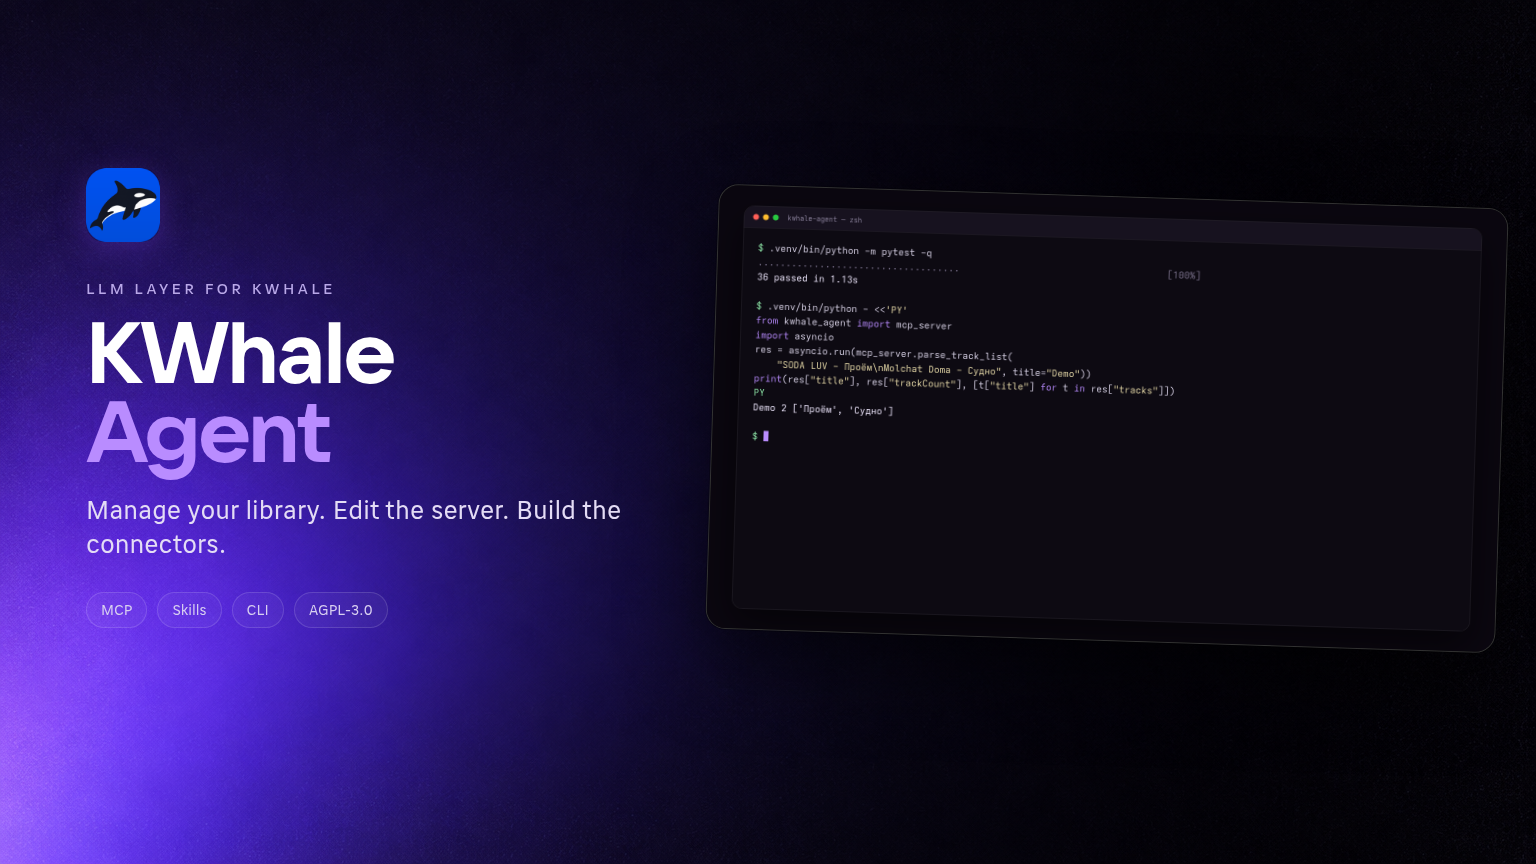
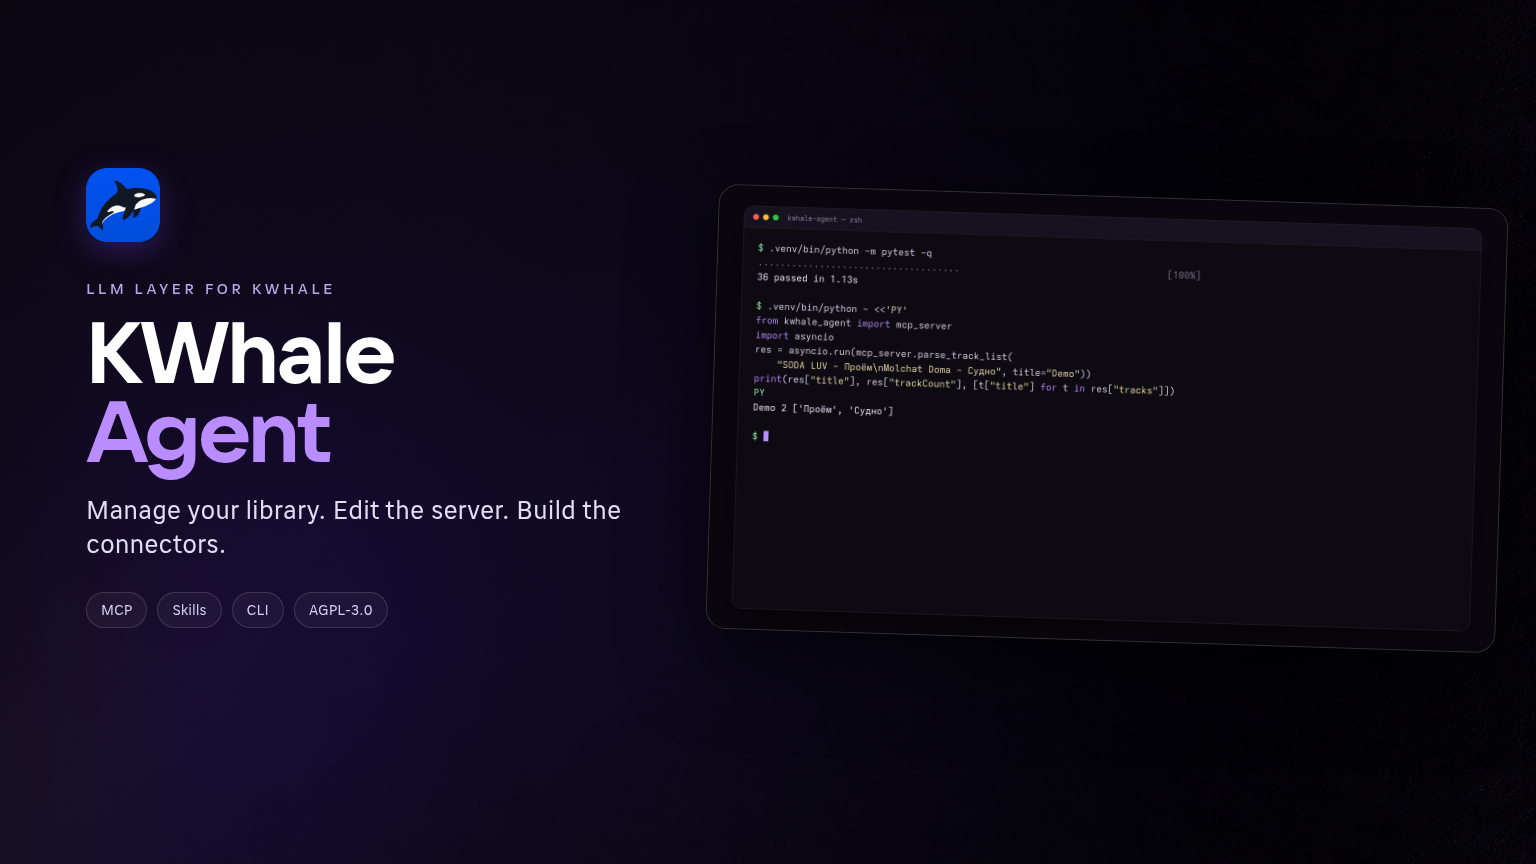
docs: add English README, refresh cover

diff --git a/README.md b/README.md
@@ -8,41 +8,50 @@
 
 # KWhale Agent
 
-**The agent layer for KWhale — playlist parsers, an MCP server, and a portable skill pack.**
+**An agent layer for KWhale — manage the library, edit the server, parse playlists, speak MCP.**
 
 [![License: AGPL-3.0](https://img.shields.io/badge/license-AGPL--3.0-blue.svg)](LICENSE)
 [![Python](https://img.shields.io/badge/python-3.11%2B-blue.svg)](https://www.python.org/)
 [![MCP](https://img.shields.io/badge/MCP-stdio-8A2BE2.svg)](https://modelcontextprotocol.io/)
+[![CI](https://github.com/KWhale-Music/kwhale-agent/actions/workflows/ci.yml/badge.svg)](https://github.com/KWhale-Music/kwhale-agent/actions/workflows/ci.yml)
 
 </div>
 
-Everything an LLM agent needs to manage a user's music collection on a
-[KWhale Server](https://github.com/KWhale-Music/kwhale-server): standalone playlist
-parsers (Yandex Music, SoundCloud, YouTube Music, VK, text/CSV/M3U lists, `yt-dlp`
-fallback), a parallel-matching importer, a full-featured **MCP server**, and a
-**portable skill pack** that works with any agent — with or without MCP.
+Everything an LLM agent needs to work with [KWhale Server](https://github.com/KWhale-Music/kwhale-server):
+manage the music collection, **edit the server code** and **build connectors** for any service.
+Inside: standalone playlist parsers (Yandex Music, SoundCloud, YouTube Music, VK,
+text/CSV/M3U lists, `yt-dlp` fallback), a parallel-matching importer, a full **MCP server**
+and a **portable skill pack** that works with any agent — with or without MCP.
 
-## ✨ Features
+## Features
 
+- **Library management** — search, playlists, likes, downloads, uploads, mixes and share
+  links through MCP or the plain `/v1` HTTP API.
 - **Standalone playlist parsers** — no server dependency; public Yandex Music playlists
-  (with redirect following and >150-track hydration), SoundCloud `api-v2` (with `client_id`
-  scraping and `on.soundcloud.com` redirects), YouTube Music InnerTube, VK `audio.get`,
-  plain `Artist - Title` lists, Exportify/Spotify CSV, M3U/M3U8, and a universal
-  `yt-dlp` fallback with optional proxy.
+  (redirects and >150-track hydration), SoundCloud `api-v2` (client_id scraping and
+  `on.soundcloud.com` redirects), YouTube Music InnerTube, VK `audio.get`, plain
+  `Artist - Title` lists, Exportify/Spotify CSV, M3U/M3U8 and a universal `yt-dlp`
+  fallback with optional proxy.
 - **Smart importer** — parallel track matching (ISRC + duration + text fallback) into a
   new or existing playlist, with `dry_run`.
+- **Code editing** — the `kwhale-codebase` skill gives the LLM a map of the server, the
+  Android client and the agent layer, plus build/test commands and invariants. The agent
+  can change code, not just manage the library.
+- **Connector building** — the `kwhale-connectors` skill is a complete guide to the
+  contract, registration, streaming, secrets and tests. It is enough to write a connector
+  for any service from scratch.
 - **MCP server** (`python -m kwhale_agent.mcp_server`) — ~30 tools: auth, playlist CRUD,
-  catalog search, likes, downloads, uploads, mixes, share links.
+  catalogue search, likes, downloads, uploads, mixes, share links.
 - **Portable skill pack** — `kwhale-api` (raw `/v1` protocol, works without MCP),
   `kwhale-ops` (operational scenarios), `kwhale-codebase`, `kwhale-connectors`,
-  `kwhale-proxy` (sing-box / proxy routing for sources).
-- **Isolated test stand** — the whole test suite runs without network and without a database.
+  `kwhale-proxy` (sing-box / source proxying).
+- **Isolated test bench** — the whole suite runs without network and without a database.
 
-## 📸 Screenshots
+## Screenshots
 
 <img src="docs/images/screens-terminal.png" alt="Terminal / MCP session" width="100%"/>
 
-## 🚀 Quickstart
+## Quick start
 
 ```bash
 git clone https://github.com/KWhale-Music/kwhale-agent.git
@@ -50,81 +59,63 @@ cd kwhale-agent
 python3 -m venv .venv
 .venv/bin/pip install -e ".[dev,fallback]"   # httpx[socks], fastmcp, pytest, yt-dlp
 
-.venv/bin/python -m pytest tests -v          # offline test suite
+.venv/bin/python -m pytest tests -v          # offline tests
 .venv/bin/python -m kwhale_agent.mcp_server  # start MCP (stdio)
 ```
 
-Connect to your agent: copy or symlink `skills/*` into your agent's skills directory
-(e.g. `.opencode/skills/`), and register the MCP server in its config.
-For an external agent **without MCP**, ship `skills/kwhale-api/SKILL.md` — the agent
-asks the user for the instance URL and credentials itself.
+Connecting an agent: copy or link `skills/*` into your agent's skills directory
+(for example `.opencode/skills/`) and register the MCP server in its config.
+For an external agent **without MCP**, the `skills/kwhale-api/SKILL.md` skill is enough —
+the agent will ask the user for the instance URL and credentials.
 
-## ⚙ Configuration
+## Configuration
 
 | Variable | Purpose |
 |---|---|
-| `KWHALE_BASE_URL` | instance API URL with `/v1` (e.g. `http://127.0.0.1:19001/v1`) |
-| `KWHALE_EMAIL` / `KWHALE_PASSWORD` | account credentials (login is by **email**) |
-| `KWHALE_DOWNLOAD_DIR` | target for `download_track(mode="file")` (default `./downloads`) |
+| `KWHALE_BASE_URL` | instance API URL with `/v1` (for example `http://127.0.0.1:19001/v1`) |
+| `KWHALE_EMAIL` / `KWHALE_PASSWORD` | credentials (login by **email**) |
+| `KWHALE_DOWNLOAD_DIR` | directory for `download_track(mode="file")` (default `./downloads`) |
 | `KWHALE_AGENT_VK_TOKEN` | VK token for `VkPlaylistParser` |
-| `HTTPS_PROXY` / `YTDLP_PROXY` | proxy for parsers and `yt-dlp` fallback (see `kwhale-proxy` skill) |
+| `HTTPS_PROXY` / `YTDLP_PROXY` | proxy for parsers and the `yt-dlp` fallback (`kwhale-proxy` skill) |
 
-If the env is empty, the agent should ask the user and call MCP `login(email, password, base_url)`.
+If the env is empty, the agent should ask the user and call the MCP `login(email, password, base_url)`.
 
-## 🧭 MCP tools
+## MCP tools
 
-- **Auth & info:** `login`, `logout`, `kwhale_status`
-- **Playlists & import:** `list_supported_platforms`, `detect_playlist_platform`,
+- **Auth and info:** `login`, `logout`, `kwhale_status`
+- **Playlist parsing and import:** `list_supported_platforms`, `detect_playlist_platform`,
   `parse_playlist`, `parse_track_list`, `import_playlist_to_profile` (`dry_run`)
-- **Playlist CRUD:** `list_playlists`, `get_playlist` (full pagination for 200+ tracks),
+- **Playlist CRUD:** `list_playlists`, `get_playlist` (full pagination >200 tracks),
   `create_playlist`, `update_playlist`, `delete_playlist`, `add_tracks_to_playlist`,
   `remove_track_from_playlist`, `reorder_playlist_tracks`, `like_playlist_tracks`
-- **Catalog & downloads:** `search_tracks` (`wait=true`), `get_track_details`, `like_track`,
+- **Catalogue and downloads:** `search_tracks` (`wait=true`), `get_track_details`, `like_track`,
   `download_track`, `download_status`, `upload_track`, `manage_enrichments`, `list_library`
-- **Mixes & share:** `list_mixes`, `get_mix_tracks`, `prompt_mix`, `create_share_link`
+- **Mixes and sharing:** `list_mixes`, `get_mix_tracks`, `prompt_mix`, `create_share_link`
 
-## 🏗 Structure
+## Structure
 
-```
+```text
 kwhale_agent/
-├── playlists/      # standalone parsers (yandex, soundcloud, ytm, vk, textlist, ytdlp fallback)
-├── bridge.py       # async HTTP bridge to the /v1 API
-├── importer.py     # parallel ISRC/duration/text matching importer
-└── mcp_server.py   # stdio MCP server
-skills/             # portable skill pack for any LLM agent
-tests/              # isolated, network-free test stand
+├── playlists/           # standalone parsers (yandex, soundcloud, ytm, vk, textlist, ytdlp fallback)
+├── bridge.py            # async HTTP bridge to the /v1 API
+├── importer.py          # parallel matching (ISRC + duration + fallback)
+└── mcp_server.py        # stdio MCP server
+skills/                  # portable skill pack for any LLM agent
+tests/                   # isolated test bench with no network and no database
 ```
 
-## 🧭 Author's review
+## Status
 
-*Honest notes from the author — trade-offs and open rough edges.*
+Beta.
 
-What I'm genuinely happy with:
-
-- **Parsers are standalone.** They don't import the server and don't need a database —
-  you can use this repo purely to scrape playlists into CSV and be happy.
-- **The offline test stand.** A test suite that runs with zero network and zero services
-  is the reason this repo is pleasant to change.
-- **The skill pack idea.** `kwhale-api` lets any agent drive KWhale over plain HTTP with
-  no MCP at all — portability beats integration depth here.
-
-What's honestly still rough:
-
-- **External APIs are fragile by nature.** The VK and YouTube Music parsers depend on
-  undocumented endpoints; expect them to break occasionally and be fixed.
-- **`yt-dlp` is a heavy fallback.** It works almost everywhere, but it drags a large
-  dependency behind it — hence the `[fallback]` extra being optional.
-- **Test coverage is uneven** — parsers and importer are well covered; the MCP surface
-  is thinner.
-
-## 🗺 Status
-
-Beta — used by the author to migrate real playlists between services.
-
-## 📄 License
+## License
 
 [AGPL-3.0](LICENSE) — same terms as the server.
 
-Third-party notes: parsers integrate third-party services through their existing web APIs.
-Use them in accordance with the terms of those services; the authors take no responsibility
-for misuse.
+Fonts (when shipped with the repository) are excluded and remain under their own
+licenses; they are not covered by the AGPL.
+
+## Third-party services
+
+The parsers work with third-party services through their existing web APIs. Use them in
+accordance with those services' terms; the authors take no responsibility for misuse.
